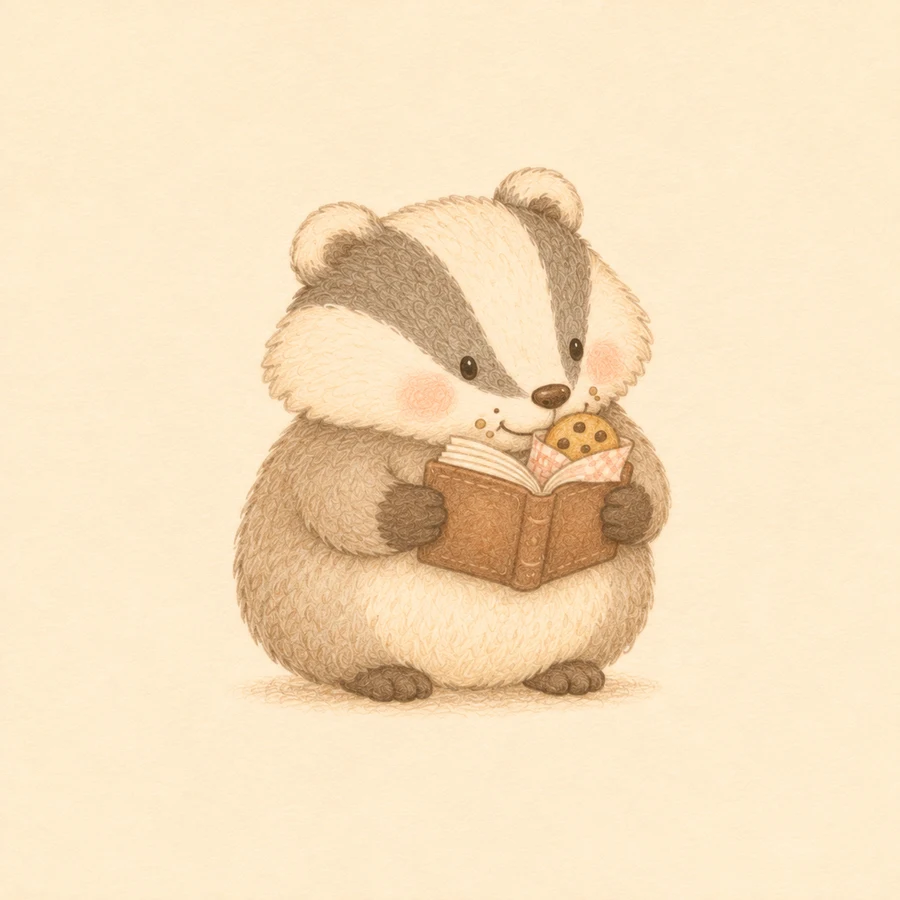
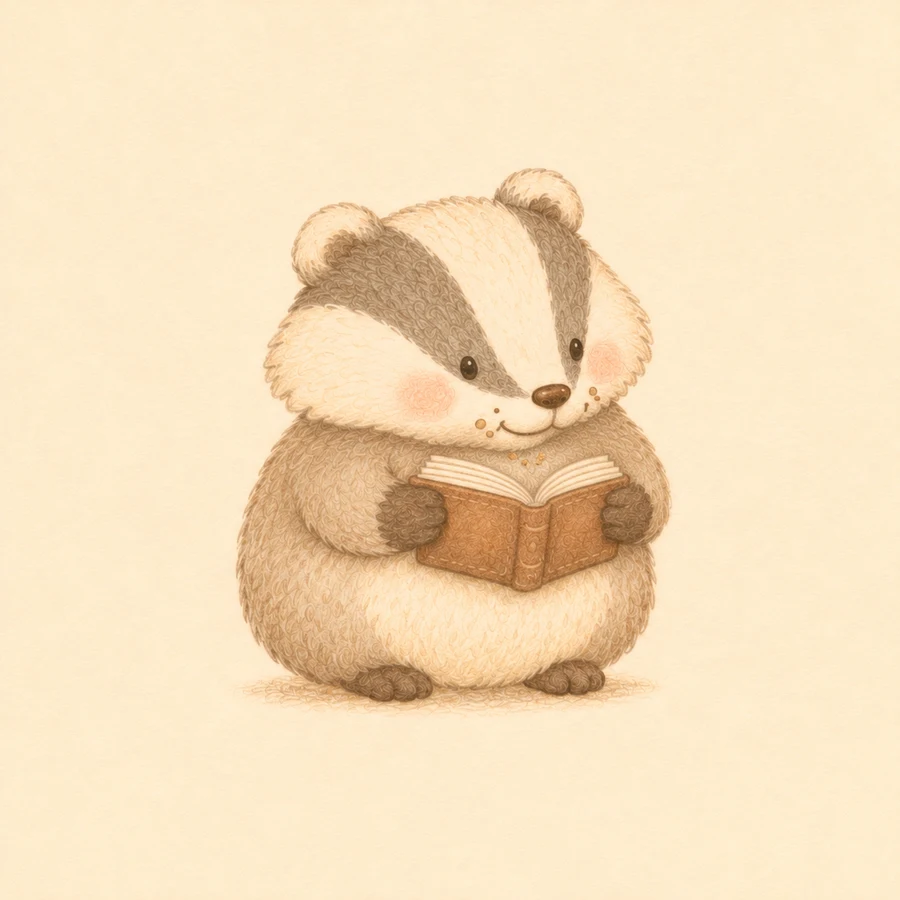
Fix badger artwork: keep only cookie crumbs while holding ledger

diff --git a/index.html b/index.html
@@ -3,7 +3,7 @@
 <body><a class="skip" href="#main">跳到正文</a><header class="topbar"><a class="brand" href="#"><img src="assets/jiujiu-01.webp" alt="" width="46" height="46"><span>啾啾岛<small>Jiujiu Island</small></span></a><nav aria-label="主导航"><a href="#about">认识啾啾</a><a href="#friends">啾啾的朋友</a><a href="#island">岛上走走</a><a href="#gallery">小岛画册</a></nav><a class="nav-note" href="#postcard">收一封信</a></header>
 <main id="main"><section class="hero"><div class="hero-copy"><span class="arrival">海风刚好，你也来了。</span><h1>把日子<br>过成一封信。</h1><p>在一座小小的岛上，<br>啾啾收集天气、心事，和普普通通的好日子。<br>今天，要不要一起慢慢走？</p><a class="button" href="#island">去岛上逛逛 <span aria-hidden="true">↗</span></a><div class="handnote">一座小岛，一只鸟，一些不着急的事。</div></div><figure class="hero-picture"><img src="assets/jiujiu-16.webp" alt="啾啾叼着叶子，悬停在一座有饭馆、书屋和小路的海上小岛上" fetchpriority="high" width="1024" height="1536"><figcaption>寄自啾啾岛 · 给每一个路过的人</figcaption></figure></section>
 <section id="about" class="about wrap"><div class="portrait"><img src="assets/jiujiu-02.webp" alt="圆圆的啾啾站着，收拢羽翼，歪着头看向你" loading="lazy"><span class="portrait-note">你好呀，我是啾啾。</span></div><div class="about-copy"><h2>小小一只，<br>装着很多心事。</h2><p>一身嫩绿的羽毛，一点暖暖的腮红。啾啾住在海边，忙着送信，也忙着记住沿途的小事情。</p><p>有时候，它搬一片比自己还大的叶子；有时候，送错了门，就悄悄折回去。累了便缩进小巢，等下一阵风来。</p><div class="character-notes"><span>喜欢收集小东西</span><span>偶尔迷路</span><span>认真过每一天</span></div></div></section>
-<section id="friends" class="friends-section wrap" aria-labelledby="friends-title"><div class="section-heading"><div><p class="section-note">岛上的灯，不止一盏。</p><h2 id="friends-title">啾啾的朋友</h2></div><p>各有各的慢节奏，也彼此惦记。</p></div><div class="friend-grid"><article class="friend-card"><a class="friend-image" href="assets/friend-jay.webp" aria-label="查看松鸦完整角色图"><img src="assets/friend-jay.webp" alt="粉棕色松鸦闭着眼，双翼抱着橡子，羽翼上有蓝黑色条纹" width="900" height="900" loading="lazy"></a><div class="friend-copy"><span class="friend-role">一起探路的收藏家</span><h3>松鸦</h3><p class="friend-quote">“这个，说不定以后用得上。”</p><p>好奇、认真，还有一点小得意。总能发现路边值得带回家的小东西，尤其舍不得一颗漂亮的橡子。嘴上说自己很认路，偶尔也会和啾啾一起走错岔口。</p><p>常陪啾啾探路，替它记住树林里的新发现。遇到朋友需要，又愿意拿出自己最珍爱的收藏。</p><div class="character-notes"><span>爱收藏</span><span>有点逞强</span><span>对朋友大方</span></div><a class="friend-download" href="assets/friend-jay.webp" download="松鸦.webp">下载角色图 ↗</a></div></article><article class="friend-card"><a class="friend-image" href="assets/friend-dormouse.webp" aria-label="查看睡鼠完整角色图"><img src="assets/friend-dormouse.webp" alt="蜜糖灰棕色睡鼠半闭着眼捧着小茶杯，身后卷着蓬松的尾巴" width="900" height="900" loading="lazy"></a><div class="friend-copy"><span class="friend-role">给晚归的人留灯</span><h3>睡鼠</h3><p class="friend-quote">“先喝口热的，再慢慢说。”</p><p>慢热、贪睡，做什么都慢半拍，却很会照顾别人的心情。喜欢捧着热茶听故事，听到一半可能会打盹，醒来还记得你没说完的那句话。</p><p>不常陪啾啾跑远路，但总在小屋里等它回来。会留一盏灯、一杯温茶，和一个不用着急解释的座位。</p><div class="character-notes"><span>慢半拍</span><span>细心体贴</span><span>爱听故事</span></div><a class="friend-download" href="assets/friend-dormouse.webp" download="睡鼠.webp">下载角色图 ↗</a></div></article><article class="friend-card"><a class="friend-image" href="assets/friend-hedgehog.webp" aria-label="查看刺猬完整角色图"><img src="assets/friend-hedgehog.webp" alt="栗棕色刺猬捧着纽扣和小线轴，背刺高低错落" width="900" height="900" loading="lazy"></a><div class="friend-copy"><span class="friend-role">把关心缝进小事里</span><h3>刺猬</h3><p class="friend-quote">“放这儿吧，我顺手补一下。”</p><p>嘴硬心软，认真又有一点笨拙。看起来不太好靠近，其实最怕朋友难过。不擅长说安慰的话，总想找件实在的小事帮上忙。</p><p>啾啾的邮袋磨破了，它会默默缝好；朋友掉了一颗纽扣，它能惦记好几天。小工坊里常能找到它低头忙碌的身影。</p><div class="character-notes"><span>嘴硬心软</span><span>擅长修补</span><span>认真笨拙</span></div><a class="friend-download" href="assets/friend-hedgehog.webp" download="刺猬.webp">下载角色图 ↗</a></div></article><article class="friend-card"><a class="friend-image" href="assets/friend-mole.webp" aria-label="查看小鼹鼠完整角色图"><img src="assets/friend-mole.webp" alt="深暖灰褐色小鼹鼠低头捧着一盆刚发芽的植物" width="900" height="900" loading="lazy"></a><div class="friend-copy"><span class="friend-role">慢慢等一颗种子发芽</span><h3>小鼹鼠</h3><p class="friend-quote">“别急，它在土里忙着呢。”</p><p>安静专注，很有耐心。不太擅长热闹的聊天，却记得每一株花什么时候发芽、哪片泥土需要浇水。习惯先听完，再慢慢回答。</p><p>替啾啾照看沿途的小花，也会把第一朵开放的花留给朋友。遇到难过的人，它不急着追问，只会留一个能一起种花的位置。</p><div class="character-notes"><span>安静专注</span><span>照顾植物</span><span>耐心陪伴</span></div><a class="friend-download" href="assets/friend-mole.webp" download="小鼹鼠.webp">下载角色图 ↗</a></div></article><article class="friend-card"><a class="friend-image" href="assets/friend-owl.webp" aria-label="查看猫头鹰完整角色图"><img src="assets/friend-owl.webp" alt="暖灰褐色猫头鹰捧着电影票，眼边带着一点泪光" width="900" height="900" loading="lazy"></a><div class="friend-copy"><span class="friend-role">陪故事晚一点散场</span><h3>猫头鹰</h3><p class="friend-quote">“我没哭，是刚才的风有点大。”</p><p>平时安静，一聊起喜欢的电影就停不下来。嘴上说自己不容易感动，看到熟悉的桥段，还是会悄悄擦眼泪。</p><p>照看小岛电影院，认真留好每一张票根。散场后不急着关灯，会陪还想坐一会儿的朋友，等故事慢慢落下。</p><div class="character-notes"><span>安静细腻</span><span>容易感动</span><span>爱聊电影</span></div><a class="friend-download" href="assets/friend-owl.webp" download="猫头鹰.webp">下载角色图 ↗</a></div></article><article class="friend-card"><a class="friend-image" href="assets/friend-badger.webp" aria-label="查看小獾完整角色图"><img src="assets/friend-badger.webp" alt="奶油白与暖灰面纹的小獾抱着小账本，旁边露出一块饼干" width="900" height="900" loading="lazy"></a><div class="friend-copy"><span class="friend-role">把日子一笔一笔记好</span><h3>小獾</h3><p class="friend-quote">“账对上了，饼干怎么又少了一块？”</p><p>做事有条理，喜欢把账目记得整整齐齐。岛上的收支算得清，自己吃掉多少块饼干却总是对不上数。认真之余，也藏着一点小馋嘴。</p><p>照看小账房，替朋友记住容易忘的小事。偶尔会悄悄免掉一笔饭钱，再把这份好意夹进账本里，不声张。</p><div class="character-notes"><span>认真有条理</span><span>小馋嘴</span><span>默默照顾人</span></div><a class="friend-download" href="assets/friend-badger.webp" download="小獾.webp">下载角色图 ↗</a></div></article></div></section>
+<section id="friends" class="friends-section wrap" aria-labelledby="friends-title"><div class="section-heading"><div><p class="section-note">岛上的灯，不止一盏。</p><h2 id="friends-title">啾啾的朋友</h2></div><p>各有各的慢节奏，也彼此惦记。</p></div><div class="friend-grid"><article class="friend-card"><a class="friend-image" href="assets/friend-jay.webp" aria-label="查看松鸦完整角色图"><img src="assets/friend-jay.webp" alt="粉棕色松鸦闭着眼，双翼抱着橡子，羽翼上有蓝黑色条纹" width="900" height="900" loading="lazy"></a><div class="friend-copy"><span class="friend-role">一起探路的收藏家</span><h3>松鸦</h3><p class="friend-quote">“这个，说不定以后用得上。”</p><p>好奇、认真，还有一点小得意。总能发现路边值得带回家的小东西，尤其舍不得一颗漂亮的橡子。嘴上说自己很认路，偶尔也会和啾啾一起走错岔口。</p><p>常陪啾啾探路，替它记住树林里的新发现。遇到朋友需要，又愿意拿出自己最珍爱的收藏。</p><div class="character-notes"><span>爱收藏</span><span>有点逞强</span><span>对朋友大方</span></div><a class="friend-download" href="assets/friend-jay.webp" download="松鸦.webp">下载角色图 ↗</a></div></article><article class="friend-card"><a class="friend-image" href="assets/friend-dormouse.webp" aria-label="查看睡鼠完整角色图"><img src="assets/friend-dormouse.webp" alt="蜜糖灰棕色睡鼠半闭着眼捧着小茶杯，身后卷着蓬松的尾巴" width="900" height="900" loading="lazy"></a><div class="friend-copy"><span class="friend-role">给晚归的人留灯</span><h3>睡鼠</h3><p class="friend-quote">“先喝口热的，再慢慢说。”</p><p>慢热、贪睡，做什么都慢半拍，却很会照顾别人的心情。喜欢捧着热茶听故事，听到一半可能会打盹，醒来还记得你没说完的那句话。</p><p>不常陪啾啾跑远路，但总在小屋里等它回来。会留一盏灯、一杯温茶，和一个不用着急解释的座位。</p><div class="character-notes"><span>慢半拍</span><span>细心体贴</span><span>爱听故事</span></div><a class="friend-download" href="assets/friend-dormouse.webp" download="睡鼠.webp">下载角色图 ↗</a></div></article><article class="friend-card"><a class="friend-image" href="assets/friend-hedgehog.webp" aria-label="查看刺猬完整角色图"><img src="assets/friend-hedgehog.webp" alt="栗棕色刺猬捧着纽扣和小线轴，背刺高低错落" width="900" height="900" loading="lazy"></a><div class="friend-copy"><span class="friend-role">把关心缝进小事里</span><h3>刺猬</h3><p class="friend-quote">“放这儿吧，我顺手补一下。”</p><p>嘴硬心软，认真又有一点笨拙。看起来不太好靠近，其实最怕朋友难过。不擅长说安慰的话，总想找件实在的小事帮上忙。</p><p>啾啾的邮袋磨破了，它会默默缝好；朋友掉了一颗纽扣，它能惦记好几天。小工坊里常能找到它低头忙碌的身影。</p><div class="character-notes"><span>嘴硬心软</span><span>擅长修补</span><span>认真笨拙</span></div><a class="friend-download" href="assets/friend-hedgehog.webp" download="刺猬.webp">下载角色图 ↗</a></div></article><article class="friend-card"><a class="friend-image" href="assets/friend-mole.webp" aria-label="查看小鼹鼠完整角色图"><img src="assets/friend-mole.webp" alt="深暖灰褐色小鼹鼠低头捧着一盆刚发芽的植物" width="900" height="900" loading="lazy"></a><div class="friend-copy"><span class="friend-role">慢慢等一颗种子发芽</span><h3>小鼹鼠</h3><p class="friend-quote">“别急，它在土里忙着呢。”</p><p>安静专注，很有耐心。不太擅长热闹的聊天，却记得每一株花什么时候发芽、哪片泥土需要浇水。习惯先听完，再慢慢回答。</p><p>替啾啾照看沿途的小花，也会把第一朵开放的花留给朋友。遇到难过的人，它不急着追问，只会留一个能一起种花的位置。</p><div class="character-notes"><span>安静专注</span><span>照顾植物</span><span>耐心陪伴</span></div><a class="friend-download" href="assets/friend-mole.webp" download="小鼹鼠.webp">下载角色图 ↗</a></div></article><article class="friend-card"><a class="friend-image" href="assets/friend-owl.webp" aria-label="查看猫头鹰完整角色图"><img src="assets/friend-owl.webp" alt="暖灰褐色猫头鹰捧着电影票，眼边带着一点泪光" width="900" height="900" loading="lazy"></a><div class="friend-copy"><span class="friend-role">陪故事晚一点散场</span><h3>猫头鹰</h3><p class="friend-quote">“我没哭，是刚才的风有点大。”</p><p>平时安静，一聊起喜欢的电影就停不下来。嘴上说自己不容易感动，看到熟悉的桥段，还是会悄悄擦眼泪。</p><p>照看小岛电影院，认真留好每一张票根。散场后不急着关灯，会陪还想坐一会儿的朋友，等故事慢慢落下。</p><div class="character-notes"><span>安静细腻</span><span>容易感动</span><span>爱聊电影</span></div><a class="friend-download" href="assets/friend-owl.webp" download="猫头鹰.webp">下载角色图 ↗</a></div></article><article class="friend-card"><a class="friend-image" href="assets/friend-badger.webp" aria-label="查看小獾完整角色图"><img src="assets/friend-badger.webp" alt="奶油白与暖灰面纹的小獾双手抱着打开的账本，嘴边和胸前留着少量饼干碎" width="900" height="900" loading="lazy"></a><div class="friend-copy"><span class="friend-role">把日子一笔一笔记好</span><h3>小獾</h3><p class="friend-quote">“账对上了，饼干怎么又少了一块？”</p><p>做事有条理，喜欢把账目记得整整齐齐。岛上的收支算得清，自己吃掉多少块饼干却总是对不上数。认真之余，也藏着一点小馋嘴。</p><p>照看小账房，替朋友记住容易忘的小事。偶尔会悄悄免掉一笔饭钱，再把这份好意夹进账本里，不声张。</p><div class="character-notes"><span>认真有条理</span><span>小馋嘴</span><span>默默照顾人</span></div><a class="friend-download" href="assets/friend-badger.webp" download="小獾.webp">下载角色图 ↗</a></div></article></div></section>
 <section id="island" class="island-section"><div class="wrap"><div class="section-heading"><div><p class="section-note">在这儿，绕点远路也没关系。</p><h2>到岛上走走</h2></div><p>点一处地方，停一小会儿。</p></div><div class="places"><div class="place-controls" role="group" aria-label="选择小岛地点"><button data-place="0" aria-pressed="true">海边饭馆<span>热茶还没凉</span></button><button data-place="1" aria-pressed="false">窗边书屋<span>把午后留给阳光</span></button><button data-place="2" aria-pressed="false">小岛影院<span>散场了，还想再坐一会儿</span></button><button data-place="3" aria-pressed="false">深夜账房<span>最后一盏灯，还亮着</span></button></div><figure class="place-view"><img id="place-image" src="assets/jiujiu-17.webp" alt="海边饭馆外，两杯还温热的茶放在小圆桌上" loading="lazy"><figcaption><h3 id="place-title">海边饭馆</h3><p id="place-description">海风吹过桌边。给你留的那杯茶，还温着。</p><button class="text-button" id="place-open">放大这幅画</button></figcaption></figure></div></div></section>
 <section id="gallery" class="gallery-section wrap"><div class="section-heading"><div><p class="section-note">把小事，一张一张存起来。</p><h2>小岛画册</h2></div><span id="gallery-count" aria-live="polite"></span></div><div class="gallery-tools"><div id="filters" class="filters" role="group" aria-label="画册分类"></div><label class="search"><span class="sr-only">搜索画册</span><input id="search" type="search" placeholder="找一张画…" autocomplete="off"></label></div><p id="gallery-description" class="gallery-description">清晨的布帘，午后的阳光，和深夜还亮着的窗。</p><div id="gallery-grid" class="gallery-grid"></div><p id="empty" hidden>还没找到这张画，换个词试试。</p><noscript><p>请开启 JavaScript，浏览完整画册和下载素材。</p></noscript></section>
 <section id="postcard" class="postcard-section"><div class="wrap postcard"><div><p class="section-note">写给今天的你</p><h2 id="letter-title">慢一点，也会到的。</h2><p id="letter-body">有时候，绕了一点远路，<br>刚好看见了原本会错过的风景。</p><button id="next-letter" class="button secondary">再收一封信 <span aria-hidden="true">✉</span></button></div><img id="letter-image" src="assets/jiujiu-27.webp" alt="送错门的啾啾，正沿着小路悄悄折返" loading="lazy"></div></section>
